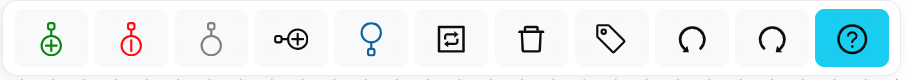
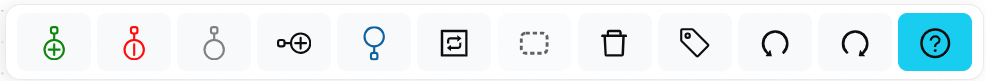
Document suppressed premises and selection indicators
Adds suppressed-premise instructions and shortcuts, explains the new selection halo, and updates toolbar images and documentation.

diff --git a/selecting_boxes_and_navigating.md b/selecting_boxes_and_navigating.md
@@ -8,6 +8,14 @@ nav_order: 3
 
 You can select any box in an Argumentation.io map by selecting it with a mouse or touchscreen.
 
+## Recognize the selected box
+
+The selected box is surrounded by a yellow halo. The line connecting it to its parent also appears dashed while the box is selected.
+
+These indicators show which box will be affected by editing commands. They disappear when you select another box.
+
+![A selected reason box surrounded by a yellow halo, with a dashed line connecting it to its parent.](images/selected-box-halo.png)
+
 ## Navigate with a keyboard
 
 On Windows, use `Shift+Alt` with the arrow keys. On Mac, use `Shift+Option` with the arrow keys:
@@ -20,3 +28,18 @@ On Windows, use `Shift+Alt` with the arrow keys. On Mac, use `Shift+Option` with
 These commands follow the logical structure of the map. The `Tab` key moves among interactive interface elements and does not necessarily follow the map's logical structure.
 
 To move among the main contentions of a map containing multiple trees, press `Shift+Alt+M` on Windows or `Shift+Option+M` on Mac.
+
+## Mark a premise as suppressed
+
+A suppressed premise is an unstated premise that is needed to support an inference. You can mark a premise as suppressed by giving its box a dashed outline.
+
+1. Select the premise you want to mark.
+2. Select **Mark as suppressed premise** in the toolbar. On Windows, you can instead press `Shift+Alt+U`; on Mac, press `Shift+Option+U`.
+
+![The Argumentation.io toolbar with the Mark as suppressed premise button identified.](images/suppressed-premise-button.png)
+
+To restore the box's solid outline, use the button or keyboard command again.
+
+A dashed box outline indicates a suppressed premise. By contrast, the yellow halo and the temporarily dashed line connecting a box to its parent indicate that the box is selected.
+
+![Two reason boxes, one with a solid outline and one with a dashed outline indicating a suppressed premise.](images/suppressed-premise-example.png)

diff --git a/workspace.md b/workspace.md
@@ -25,13 +25,14 @@ The toolbar is centered at the top of the workspace. Its controls, from left to 
 4. **Add co-premise**
 5. **Add main contention**
 6. **Toggle reason/objection/other**
-7. **Delete**
-8. **Tag**
-9. **Undo**
-10. **Redo**
-11. **Key commands**
+7. **Mark as suppressed premise**
+8. **Delete**
+9. **Tag**
+10. **Undo**
+11. **Redo**
+12. **Key commands**
 
-![Close-up of the toolbar, showing the eleven controls in the order listed above.](./images/toolbar.png)
+![Close-up of the toolbar, showing the twelve controls in the order listed above.](./images/toolbar.png)
 
 The available action may depend on which box is selected. For example, select a box before adding a reason beneath it or applying a tag.
 

diff --git a/key_commands.md b/key_commands.md
@@ -31,6 +31,7 @@ The keyboard commands below work while you are using the map workspace. You can 
 | Delete the selected box or branch | `Shift+Alt+D` | `Shift+Option+D` |
 | Cycle among reason, objection, and other | `Shift+Alt+G` | `Shift+Option+G` |
 | Open the Tag menu | `Shift+Alt+T` | `Shift+Option+T` |
+| Mark or unmark a suppressed premise | `Shift+Alt+U` | `Shift+Option+U` |
 
 ## Move boxes
 
